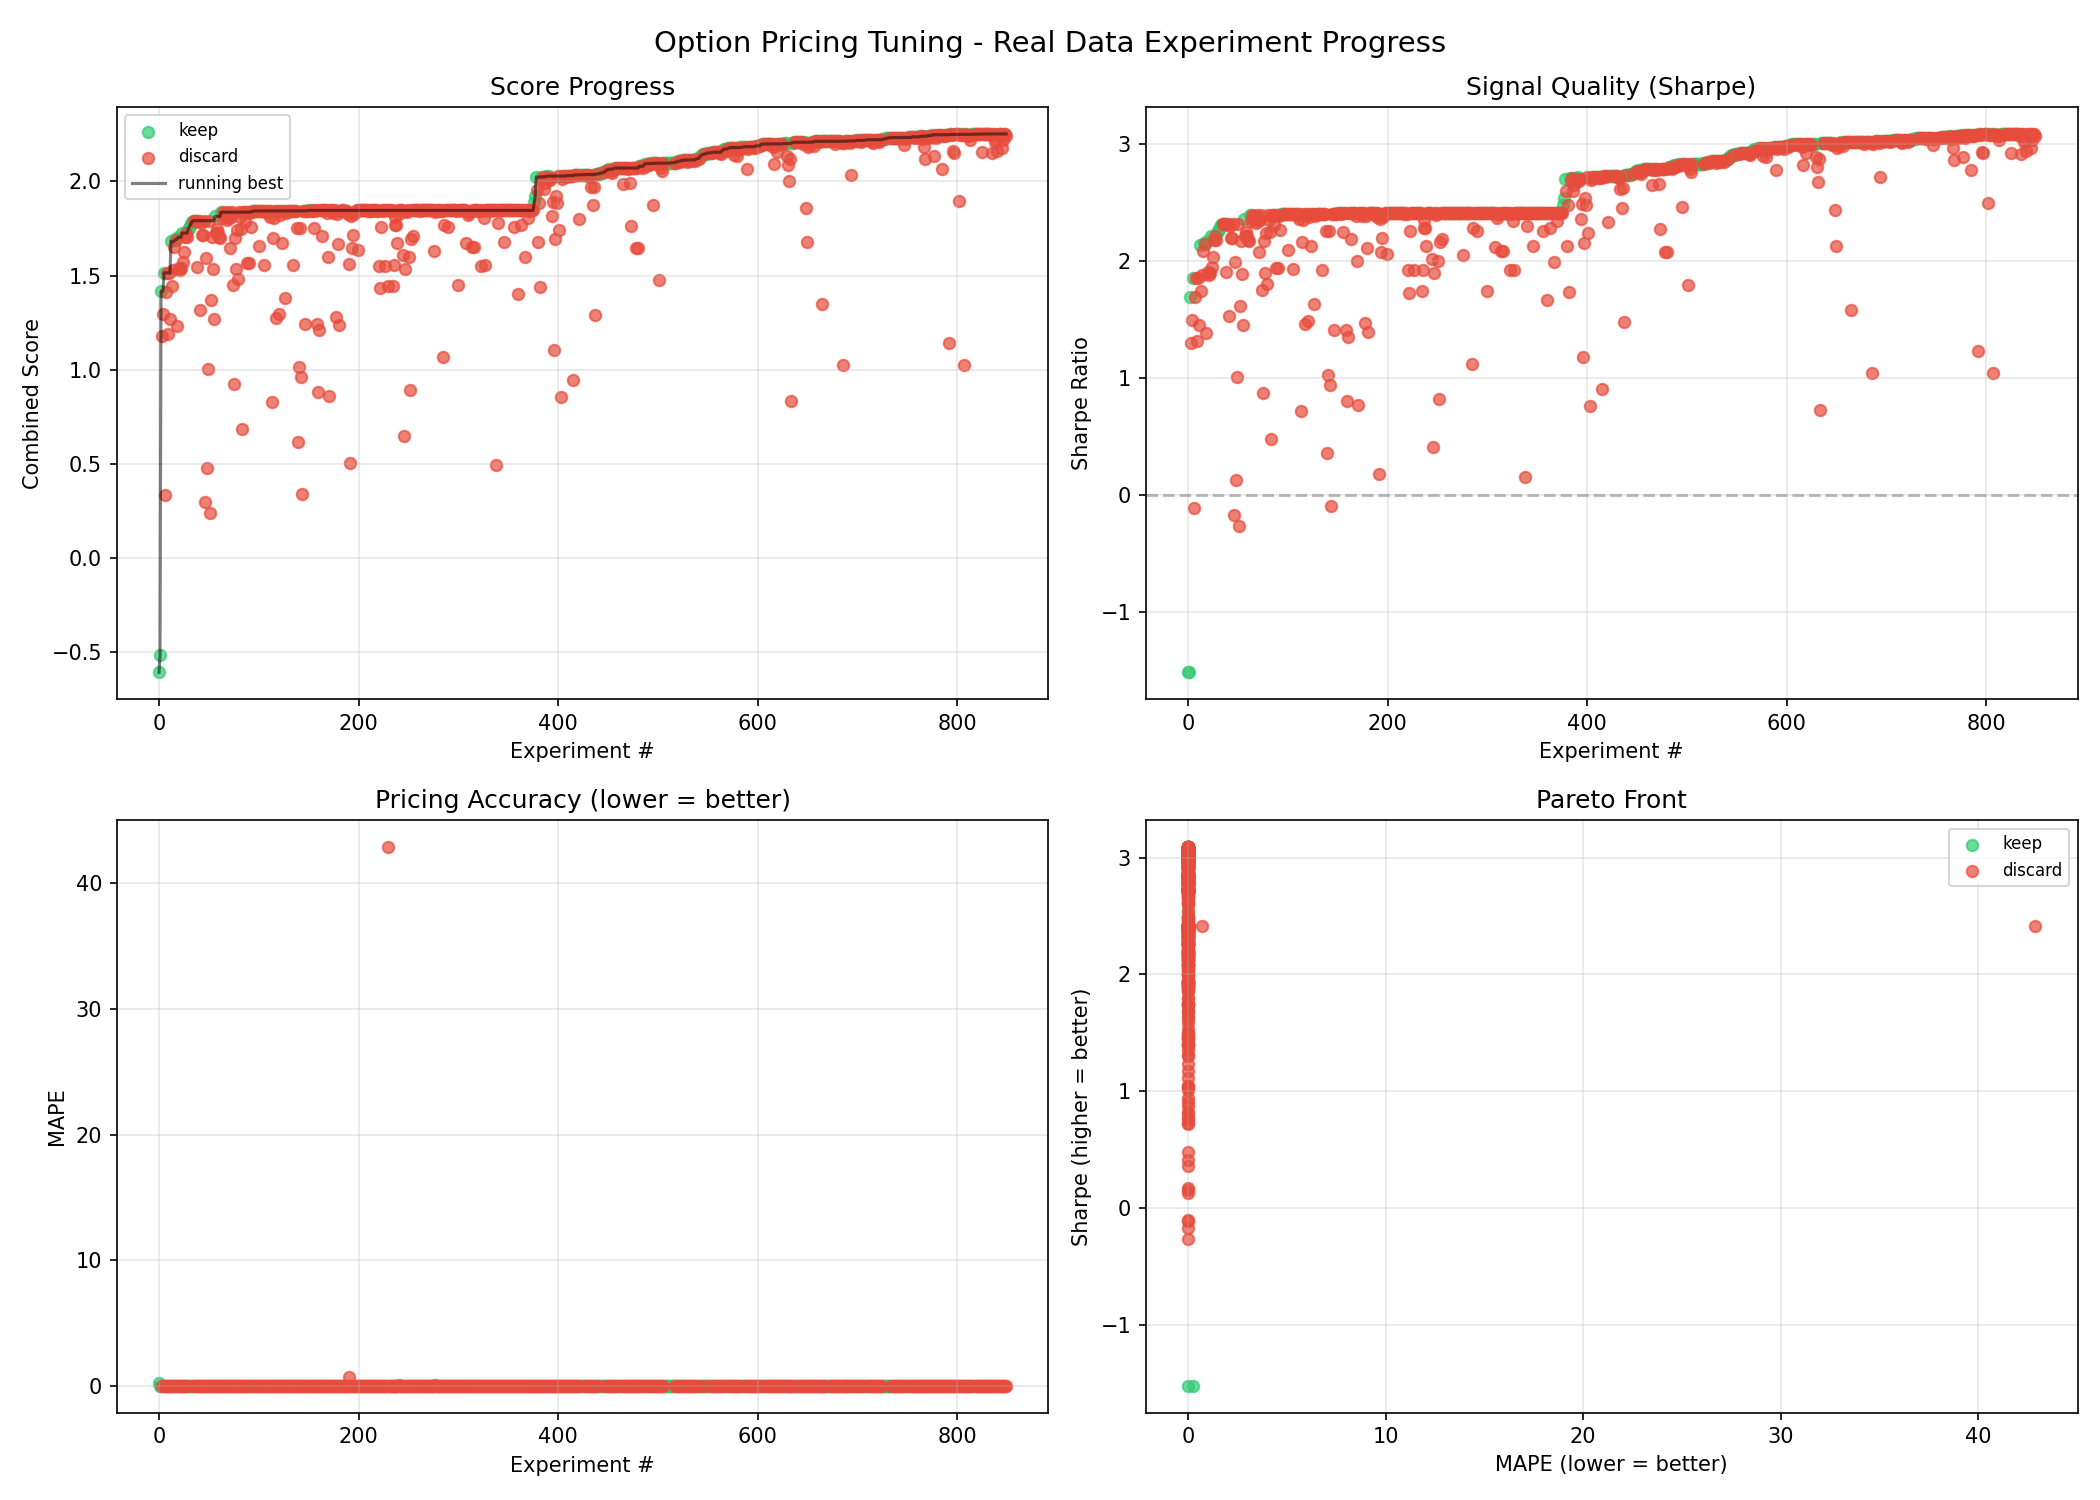
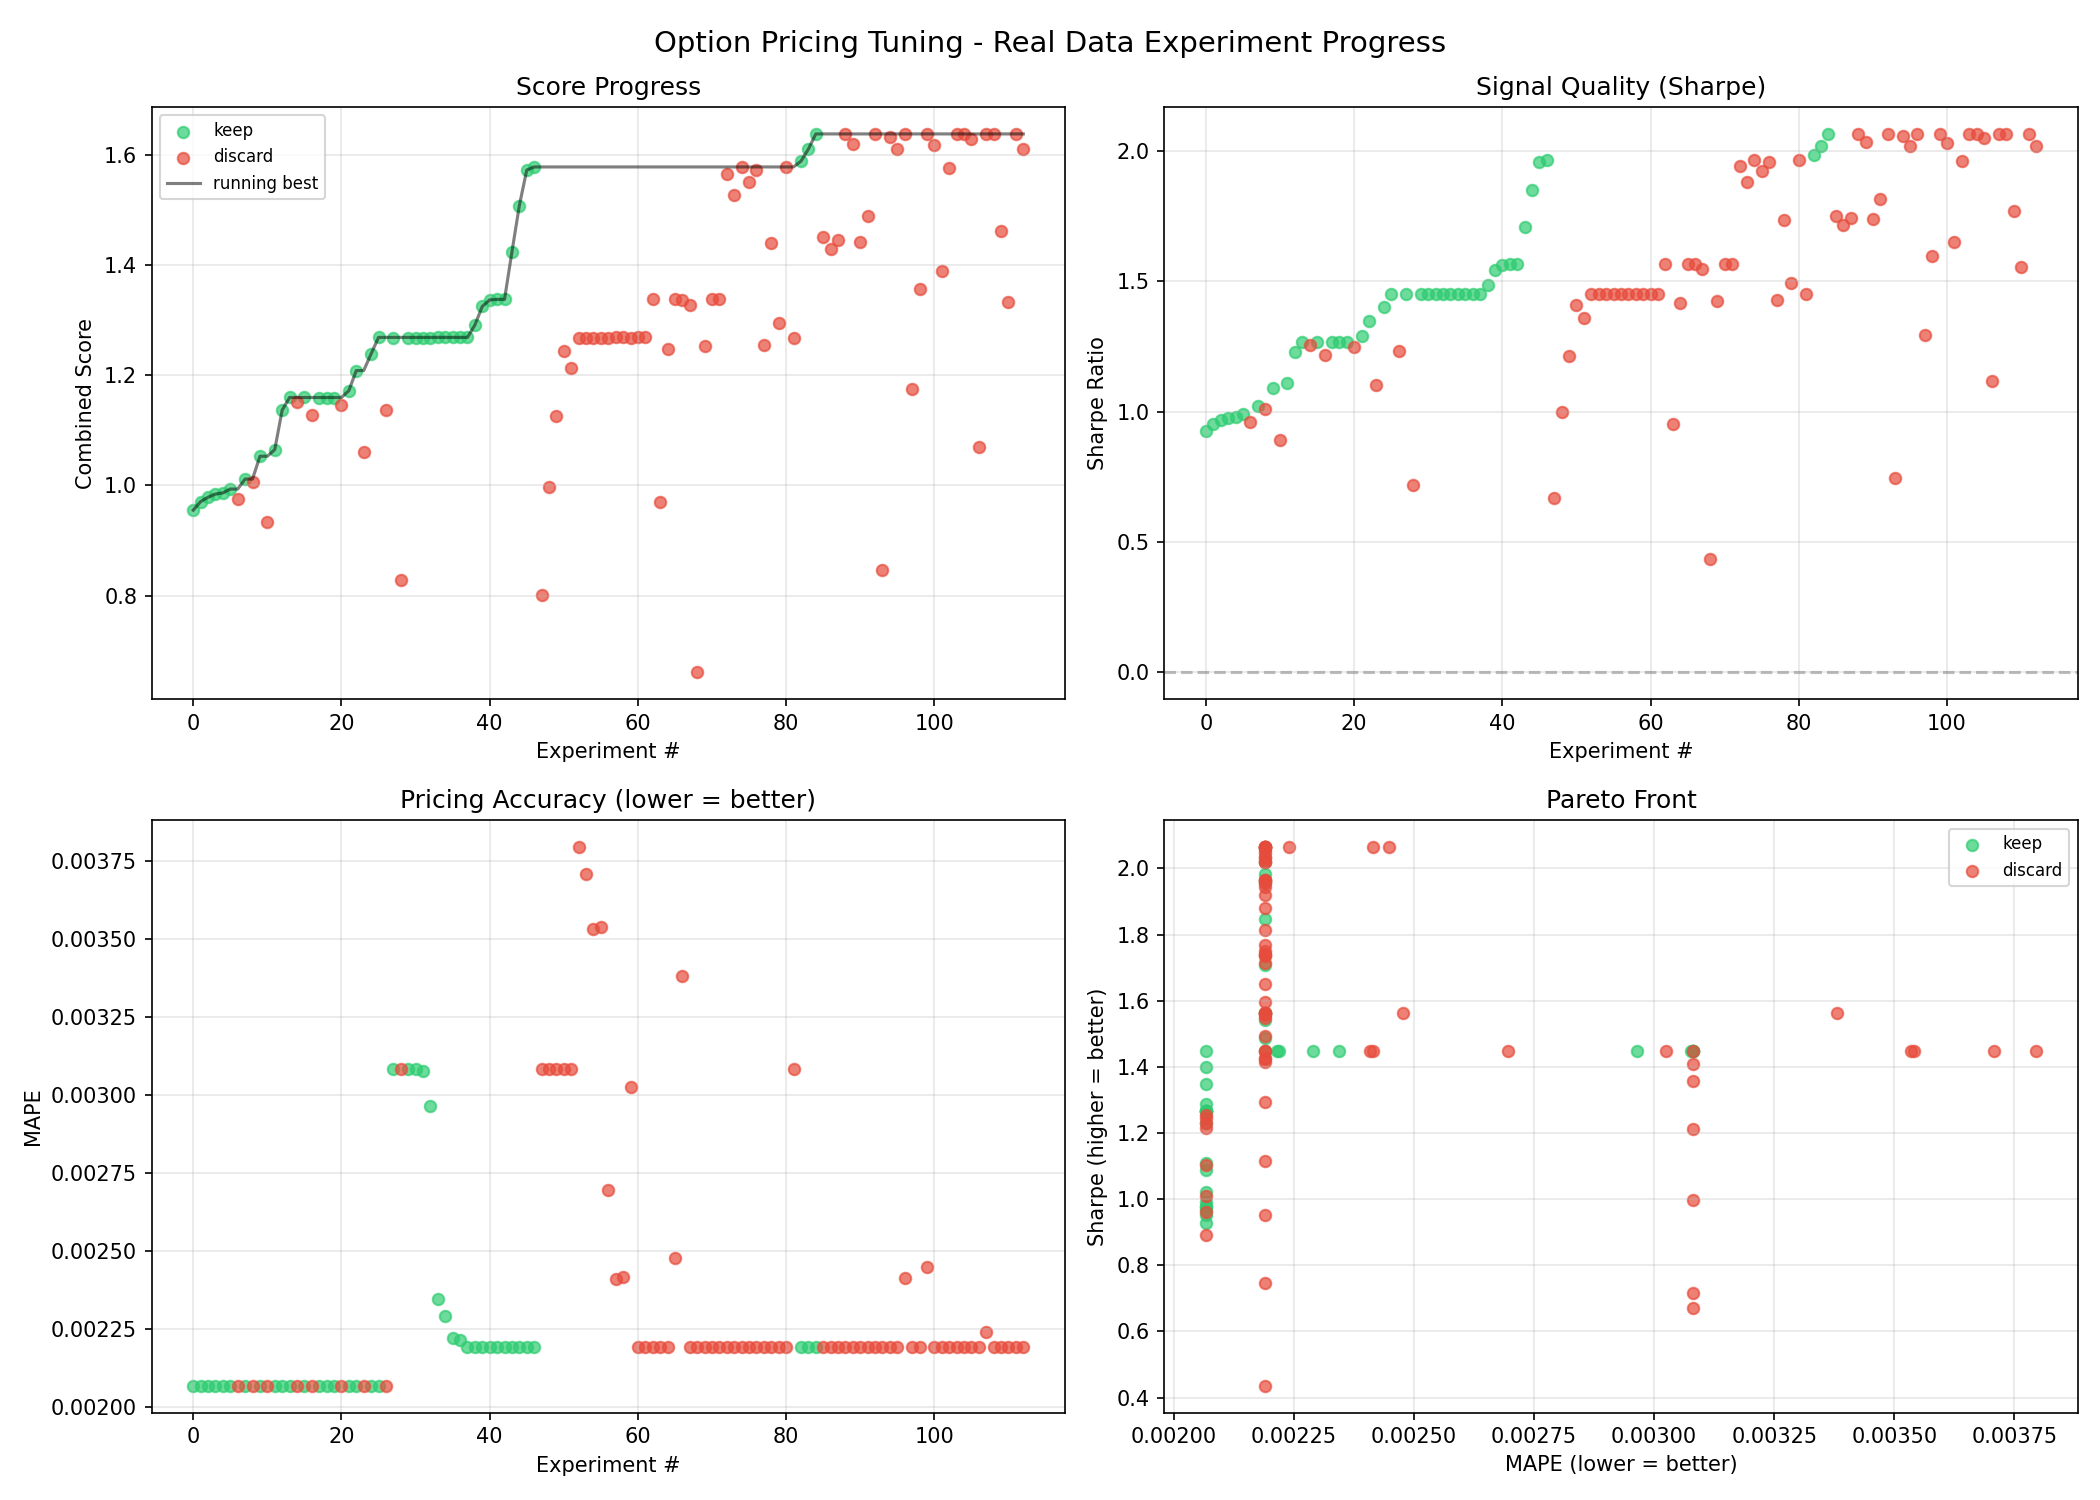
Clear results.tsv for fresh optimization run with 1626 stocks
Starting from scratch with the expanded S&P500+R2000 universe.

diff --git a/README.md b/README.md
@@ -9,12 +9,12 @@ signals using **real stock market data** from Yahoo Finance.
 
 | Metric | Value |
 |---|---|
-| Combined Score | 2.2524 |
-| Sharpe Ratio | 3.0887 |
-| MAPE | 0.002003 |
-| Win Rate | 86.2% |
-| Trades | 29 |
-| Experiments | 850 (199 kept) |
+| Combined Score | 1.6378 |
+| Sharpe Ratio | 2.0644 |
+| MAPE | 0.002190 |
+| Win Rate | 76.9% |
+| Trades | 26 |
+| Experiments | 113 (41 kept) |
 
 ## How It Works
 
